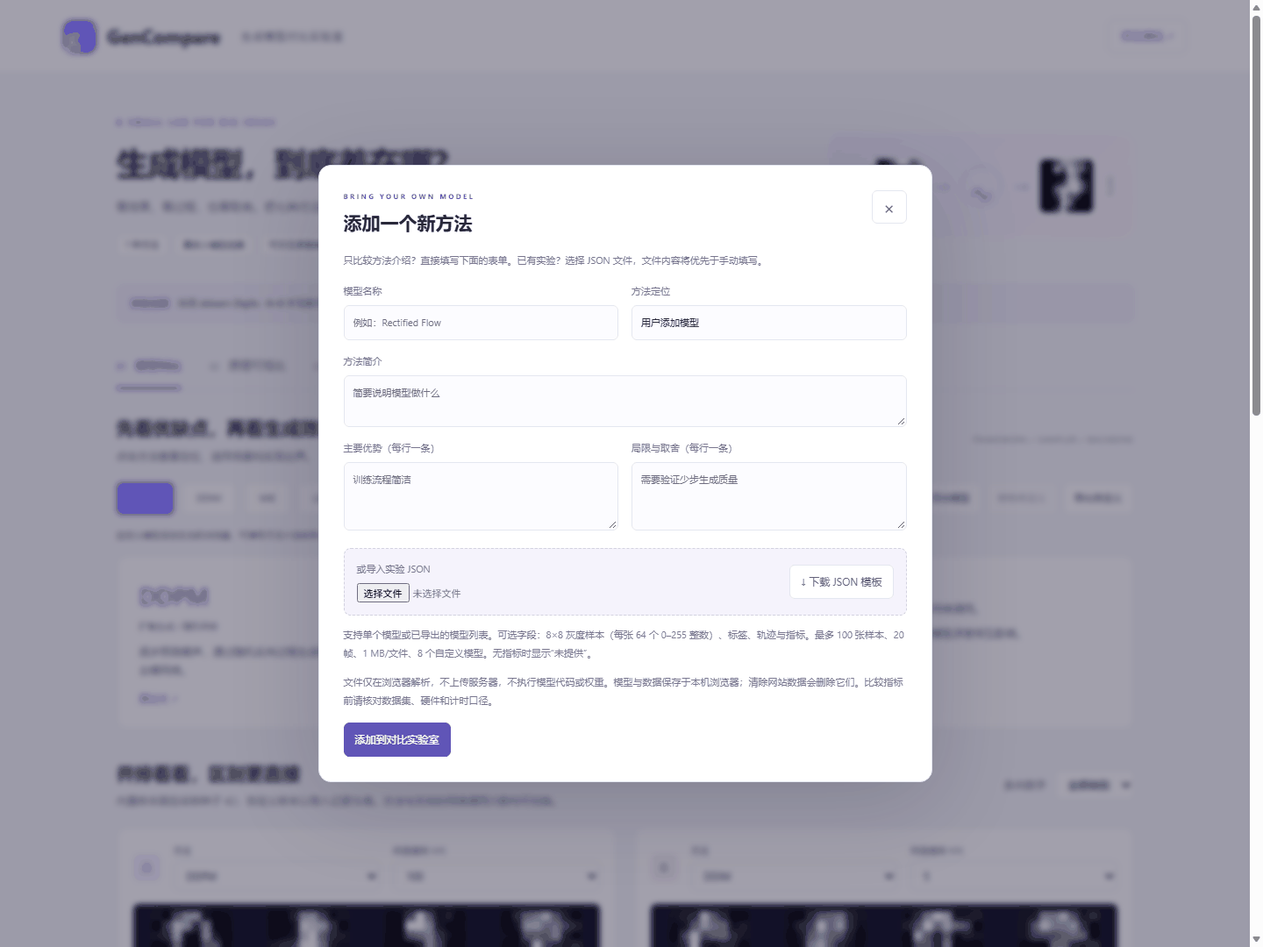
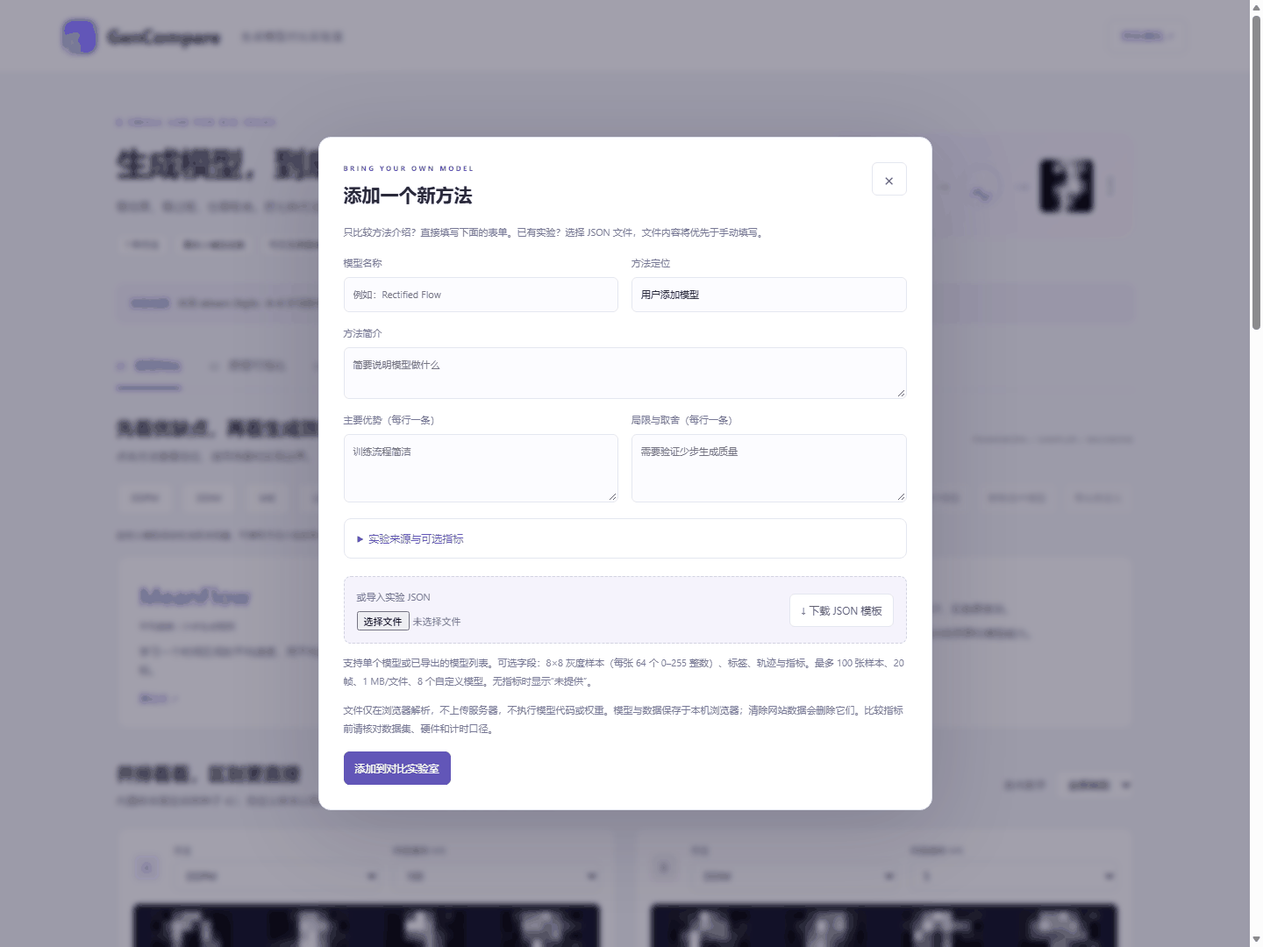
feat(engineering): improve comparison plots and custom model editing
Add interactive speed-quality plots, editable model provenance and metrics, selected-only removal, and regression checks for retained samples and labels.

diff --git a/engineering/src/index.html b/engineering/src/index.html
@@ -3,18 +3,19 @@
 <main><section class="intro"><div><div class="eyebrow">A SMALL LAB FOR BIG IDEAS</div><h1>生成模型，到底差在哪？</h1><p>看效果、看过程，也看取舍。把七种方法放在同一个实验台上，理解从噪声到数据的不同路径。</p><div class="intro-tags"><span>7 种方法</span><span>真实小模型结果</span><span>可交互原理演示</span></div></div><div class="intro-visual"><span>NOISE</span><canvas id="intro-noise" width="64" height="64" aria-label="随机噪声"></canvas><i>→</i><div class="process-symbol">∿</div><i>→</i><canvas id="intro-digit" width="64" height="64" aria-label="真实生成数字"></canvas><span>DATA</span></div></section>
 <div class="notice"><span>实验范围</span>采用 <b>sklearn Digits · 8×8</b> 手写数字，非 MNIST。所有模型为教学规模实现；DDIM 与 DDPM 共用权重。这里比较具体配置，不给不同层级的方法做通用排名。</div>
 <nav class="tabs" aria-label="实验视图"><button class="active" data-tab="compare" aria-selected="true">01 <span>模型对比</span></button><button data-tab="principles" aria-selected="false">02 <span>原理可视化</span></button><button data-tab="records" aria-selected="false">03 <span>实验记录</span></button></nav>
-<section class="view active" id="compare"><div class="section-heading"><div><h2>先看优缺点，再看生成效果</h2><p>点击方法查看定位、适用场景和实现边界。</p></div><span class="muted">FRAMEWORK / SAMPLER / BACKBONE</span></div><div class="custom-toolbar"><div id="model-pills" class="model-pills"></div><div><button id="add-model">＋ 添加模型</button><button id="remove-model">移除自定义</button><button id="export-models">导出自定义</button></div></div><p id="storage-note" class="storage-note" aria-live="polite">自定义模型保存在当前浏览器，可填写方法介绍或导入自己的实验结果。</p><article id="model-detail" class="model-detail" aria-live="polite"></article>
+<section class="view active" id="compare"><div class="section-heading"><div><h2>先看优缺点，再看生成效果</h2><p>点击方法查看定位、适用场景和实现边界。</p></div><span class="muted">FRAMEWORK / SAMPLER / BACKBONE</span></div><div class="custom-toolbar"><div id="model-pills" class="model-pills"></div><div><button id="add-model">＋ 添加模型</button><button id="edit-model" disabled>编辑选中模型</button><button id="remove-model" disabled>移除选中模型</button><button id="export-models">导出自定义</button></div></div><p id="storage-note" class="storage-note" aria-live="polite">自定义模型保存在当前浏览器，可填写方法介绍或导入自己的实验结果。</p><article id="model-detail" class="model-detail" aria-live="polite"></article>
 <div class="section-heading experiment-title"><div><h2>并排看看，区别更直接</h2><p>内置样本固定采样种子 42；自定义样本以导入记录为准。方法与支持的网络调用次数均可切换。</p></div><label class="digit-filter">条件数字 <select id="digit"><option value="all">全部类别</option></select></label></div>
-<div class="comparison"><article class="sample-panel"><div class="panel-top"><span class="side-letter">A</span><label>方法<select id="model-a"></select></label><label>网络调用 NFE<select id="steps-a"></select></label></div><canvas id="gallery-a" width="640" height="480" aria-label="方法 A 的生成样本"></canvas><div id="metric-a" class="metric-strip"></div><div class="trajectory-head"><b>生成轨迹</b><output id="frame-label-a"></output></div><canvas id="trajectory-a" width="640" height="80" aria-label="方法 A 的生成轨迹"></canvas><input id="frame-a" type="range" min="0" max="12" value="12" aria-label="方法 A 轨迹进度"></article>
-<article class="sample-panel"><div class="panel-top"><span class="side-letter pink">B</span><label>方法<select id="model-b"></select></label><label>网络调用 NFE<select id="steps-b"></select></label></div><canvas id="gallery-b" width="640" height="480" aria-label="方法 B 的生成样本"></canvas><div id="metric-b" class="metric-strip"></div><div class="trajectory-head"><b>生成轨迹</b><output id="frame-label-b"></output></div><canvas id="trajectory-b" width="640" height="80" aria-label="方法 B 的生成轨迹"></canvas><input id="frame-b" type="range" min="0" max="12" value="12" aria-label="方法 B 轨迹进度"></article></div>
+<div class="comparison"><article class="sample-panel"><div class="panel-top"><span class="side-letter">A</span><label>方法<select id="model-a"></select></label><label>网络调用 NFE<select id="steps-a"></select></label></div><canvas id="gallery-a" width="640" height="480" aria-label="方法 A 的生成样本"></canvas><div id="metric-a" class="metric-strip"></div><p id="source-a" class="sample-source"></p><div class="trajectory-head"><b>生成轨迹</b><output id="frame-label-a"></output></div><canvas id="trajectory-a" width="640" height="80" aria-label="方法 A 的生成轨迹"></canvas><input id="frame-a" type="range" min="0" max="12" value="12" aria-label="方法 A 轨迹进度"></article>
+<article class="sample-panel"><div class="panel-top"><span class="side-letter pink">B</span><label>方法<select id="model-b"></select></label><label>网络调用 NFE<select id="steps-b"></select></label></div><canvas id="gallery-b" width="640" height="480" aria-label="方法 B 的生成样本"></canvas><div id="metric-b" class="metric-strip"></div><p id="source-b" class="sample-source"></p><div class="trajectory-head"><b>生成轨迹</b><output id="frame-label-b"></output></div><canvas id="trajectory-b" width="640" height="80" aria-label="方法 B 的生成轨迹"></canvas><input id="frame-b" type="range" min="0" max="12" value="12" aria-label="方法 B 轨迹进度"></article></div>
 <div class="compare-actions"><button id="play" class="primary">▶ 同步播放轨迹</button><button id="export-image">↓ 导出对比图</button><span>图像按最近邻放大；VAE 直接解码，没有逐步去噪轨迹。</span></div>
-<div class="section-heading"><div><h2>同一数据集上的实验快照</h2><p>每配置生成 200 张 × 3 个种子。时延为同机实测批处理耗时，不是单图响应时间。</p></div><button id="export-csv">↓ 下载指标 CSV</button></div><div class="table-wrap"><table><thead><tr><th>方法 / 默认配置</th><th>调用 NFE</th><th>批次耗时 / ms ↓</th><th>像素 MMD² ↓</th><th>条件类别一致率 ↑</th></tr></thead><tbody id="benchmark"></tbody></table></div><p class="footnote">MMD² 是像素空间 RBF 分布差异，不是 FID；类别一致率由辅助分类器评估，不等同于生成质量。扩散/流 NFE 不含 LDM 解码；VAE 的 1 次即解码。架构、损失与参数预算不同，不构成严格消融实验。</p></section>
+<section class="tradeoff"><div class="section-heading"><div><h2>速度与效果，放在一张图里看</h2><p>每个点是一份真实实验配置。点击点或选择配置，可将它放入右侧对比。</p></div><label>比较指标 <select id="plot-metric"><option value="mmd2">像素 MMD² · 越低越好</option><option value="label_consistency">条件类别一致率 · 越高越好</option></select></label></div><div class="plot-controls"><label>方法 <select id="plot-model"><option value="all">全部内置方法</option></select></label><label>实验配置 <select id="plot-run"></select></label><label class="include-custom"><input type="checkbox" id="plot-custom"> 显示用户指标（未核验）</label></div><div class="plot-card"><canvas id="tradeoff-chart" width="1120" height="360" tabindex="0" aria-label="批次耗时与生成指标散点图，可使用上方配置选择器操作"></canvas><div id="plot-legend" class="plot-legend"></div><p id="plot-readout" class="plot-readout" aria-live="polite"></p></div><p class="footnote">横轴使用对数刻度，单位为 200 张批次的毫秒耗时；用户导入结果的批次与设备以来源信息为准，不保证与内置结果可比。连接线只用于追踪同一方法的不同配置。</p></section>
+<div class="section-heading"><div><h2>实验快照与来源对照</h2><p>内置配置：200 张 × 3 个种子，同机实测批次耗时。用户导入以其来源记录为准。</p></div><button id="export-csv">↓ 下载指标 CSV</button></div><div class="table-wrap"><table><thead><tr><th>方法 / 默认配置</th><th>调用 NFE</th><th>批次耗时 / ms ↓</th><th>像素 MMD² ↓</th><th>条件类别一致率 ↑</th></tr></thead><tbody id="benchmark"></tbody></table></div><p class="footnote">MMD² 是像素空间 RBF 分布差异，不是 FID；类别一致率由辅助分类器评估，不等同于生成质量。扩散/流 NFE 不含 LDM 解码；VAE 的 1 次即解码。架构、损失与参数预算不同，不构成严格消融实验。</p></section>
 <section class="view" id="principles"><div class="section-heading"><div><h2>把公式变成看得见的过程</h2><p>前向加噪为真实公式计算；二维配对路径为原理示意，不是七个训练模型的采样轨迹。</p></div></div><div class="principle-grid"><article class="card"><div class="number-label">01 / DIFFUSION</div><h3>扩散：逐渐加噪，学习逆过程</h3><p>拖动时间步，观察干净数字如何变成噪声。</p><div class="noise-stage"><canvas id="original" width="160" height="160" aria-label="干净测试数字"></canvas><span>→</span><canvas id="noised" width="160" height="160" aria-label="前向加噪数字"></canvas></div><label class="range-label">时间步 <output id="noise-output">0 / 100</output><input id="noise-t" type="range" min="0" max="100" value="0"></label><code>xₜ = √α̅ₜ x₀ + √(1−α̅ₜ) ε</code><p class="small">DDPM 与 DDIM 可共享同一噪声预测网络，主要比较反向采样方式。右图仅为前向公式，不是去噪模型输出。</p></article>
 <article class="card"><div class="number-label">02 / FLOW & MEAN VELOCITY</div><h3>流：用速度描述分布的移动</h3><p>观察固定噪声点到目标点的线性配对路径。</p><canvas id="particles" width="560" height="240" aria-label="二维线性配对路径示意"></canvas><label class="range-label">配对插值进度 <output id="flow-output">50%</output><input id="flow-t" type="range" min="0" max="100" value="50"></label><code>xₛ = (1−s) z + s x</code><p class="small">Flow Matching 学习瞬时速度场；MeanFlow 学习时间区间的平均速度。本图只展示已配对端点的插值，不能代替学习后的边缘速度场。</p></article>
 <article class="card"><div class="number-label">03 / VAE & LATENT DIFFUSION</div><h3>潜空间：先压缩，再生成</h3><div class="pipeline"><span>图像 x</span><i>→</i><span>编码器 E</span><i>→</i><span class="accent">潜变量 z</span><i>→</i><span>解码器 D</span></div><div class="mini-label">真实 VAE 测试重建：上排原图，下排重建</div><canvas id="reconstruction" width="640" height="160" aria-label="VAE 测试集重建对照"></canvas><div class="mini-label">同类测试图像的潜变量插值</div><canvas id="interpolation" width="640" height="80" aria-label="VAE 潜空间插值"></canvas><p class="small">VAE 可直接从先验采样后解码；本项目 LDM 在标准化 VAE 潜变量上运行扩散，再用同一个解码器还原。压缩引入的误差也会影响最终图像。</p></article>
 <article class="card"><div class="number-label">04 / DIFFUSION TRANSFORMER</div><h3>DiT：改变负责去噪的网络</h3><div class="patch-layout"><canvas id="patches" width="220" height="220" aria-label="DiT 图像分块结构"></canvas><div><strong>8 × 8 图像</strong><p>↓ 2 × 2 分块</p><strong>16 个 patch token</strong><p>↓ 时间与类别条件</p><strong>Transformer × 3</strong><p>↓ 预测像素噪声</p></div></div><p class="small">本项目是像素空间 Tiny DiT，使用 adaLN-Zero 条件残差块。原始 DiT 主要在潜空间操作；这里没有复现论文规模。分块图是结构示意，不是注意力权重。</p></article></div></section>
 <section class="view" id="records"><div class="section-heading"><div><h2>结果从哪里来？</h2><p>保留数据划分、训练配置和评估口径，让展示可追溯。</p></div><label>训练曲线 <select id="loss-model"></select></label></div><div class="record-grid"><article class="card"><h3>各自的训练收敛曲线</h3><canvas id="loss-chart" width="800" height="300" aria-label="训练损失曲线"></canvas><p id="loss-note" class="small"></p></article><article class="card"><h3>实验配置</h3><dl id="run-info"></dl></article></div><article class="card record-note"><h3>如何读这些结果</h3><ul><li>小数据、小网络的结果只能说明本次实现，不能据此判定哪篇论文更好。</li><li>DDPM/DDIM 共享权重，适合研究采样方式；像素 MLP 与 Tiny DiT 参数量不同，不是等预算架构实验。</li><li>VAE 的测试重建和随机生成分开评价；LDM 复用 VAE 的编码器与解码器。</li><li>Flow Matching 使用 Euler 积分；MeanFlow 实现平均速度恒等式与 JVP 训练，不是把普通流匹配直接改成一步。</li><li>三个采样种子的标准差反映采样波动；所有网络只训练一次，不包含训练种子的方差。</li><li>页面展示已训练模型的离线结果。重新训练、修改数据集和生成新种子，请运行仓库中的 Python 程序。</li></ul><a href="https://github.com/laportaeaston923-afk/grad-prep-zhoujingjing/tree/main/engineering" target="_blank" rel="noreferrer">查看复现步骤与完整原始指标 ↗</a></article></section>
-<dialog id="model-dialog"><div class="dialog-heading"><div><div class="eyebrow">BRING YOUR OWN MODEL</div><h2>添加一个新方法</h2></div><button id="close-dialog" type="button" aria-label="关闭">×</button></div><p class="small">只比较方法介绍？直接填写下面的表单。已有实验？选择 JSON 文件，文件内容将优先于手动填写。</p><form id="import-form"><div class="form-grid"><label>模型名称<input id="custom-name" maxlength="50" placeholder="例如：Rectified Flow"></label><label>方法定位<input id="custom-category" maxlength="80" value="用户添加模型"></label></div><label>方法简介<textarea id="custom-summary" maxlength="500" rows="2" placeholder="简要说明模型做什么"></textarea></label><div class="form-grid"><label>主要优势（每行一条）<textarea id="custom-pros" rows="3" placeholder="训练流程简洁"></textarea></label><label>局限与取舍（每行一条）<textarea id="custom-cons" rows="3" placeholder="需要验证少步生成质量"></textarea></label></div><div class="file-box"><label>或导入实验 JSON<input id="model-file" type="file" accept=".json,application/json"></label><button id="download-template" type="button">↓ 下载 JSON 模板</button></div><p class="small">支持单个模型或已导出的模型列表。可选字段：8×8 灰度样本（每张 64 个 0–255 整数）、标签、轨迹与指标。最多 100 张样本、20 帧、1 MB/文件、8 个自定义模型。无指标时显示“未提供”。</p><p class="small">文件仅在浏览器解析，不上传服务器，不执行模型代码或权重。模型与数据保存于本机浏览器；清除网站数据会删除它们。比较指标前请核对数据集、硬件和计时口径。</p><p id="import-error" class="error" role="alert"></p><button class="primary" type="submit">添加到对比实验室</button></form></dialog>
+<dialog id="model-dialog"><div class="dialog-heading"><div><div class="eyebrow">BRING YOUR OWN MODEL</div><h2 id="dialog-title">添加一个新方法</h2></div><button id="close-dialog" type="button" aria-label="关闭">×</button></div><p class="small">只比较方法介绍？直接填写下面的表单。已有实验？选择 JSON 文件，文件内容将优先于手动填写。</p><form id="import-form"><div class="form-grid"><label>模型名称<input id="custom-name" maxlength="50" placeholder="例如：Rectified Flow"></label><label>方法定位<input id="custom-category" maxlength="80" value="用户添加模型"></label></div><label>方法简介<textarea id="custom-summary" maxlength="500" rows="2" placeholder="简要说明模型做什么"></textarea></label><div class="form-grid"><label>主要优势（每行一条）<textarea id="custom-pros" rows="3" placeholder="训练流程简洁"></textarea></label><label>局限与取舍（每行一条）<textarea id="custom-cons" rows="3" placeholder="需要验证少步生成质量"></textarea></label></div><details class="metadata-fields"><summary>实验来源与可选指标</summary><div class="form-grid"><label>数据集<input id="custom-dataset" maxlength="100" placeholder="例如：sklearn Digits 8×8"></label><label>评估设备<input id="custom-hardware" maxlength="150" placeholder="例如：CPU / GPU 型号"></label></div><label>实验来源<textarea id="custom-provenance" maxlength="500" rows="2" placeholder="记录样本数量、种子、计时与指标计算方式"></textarea></label><div class="form-grid"><label>网络调用次数 NFE<input id="custom-nfe" type="number" min="1" max="1000" value="1"></label><label>计时批次样本数<input id="custom-batch" type="number" min="1" max="100000" placeholder="未提供"></label><label>批次耗时 / ms<input id="custom-ms" type="number" min="0" step="any" placeholder="未提供"></label><label>像素 MMD²<input id="custom-mmd" type="number" min="0" step="any" placeholder="未提供"></label><label>类别一致率 / 0–1<input id="custom-consistency" type="number" min="0" max="1" step="any" placeholder="未提供"></label></div></details><div class="file-box"><label>或导入实验 JSON<input id="model-file" type="file" accept=".json,application/json"></label><button id="download-template" type="button">↓ 下载 JSON 模板</button></div><p class="small">支持单个模型或已导出的模型列表。可选字段：8×8 灰度样本（每张 64 个 0–255 整数）、标签、轨迹与指标。最多 100 张样本、20 帧、1 MB/文件、8 个自定义模型。无指标时显示“未提供”。</p><p class="small">文件仅在浏览器解析，不上传服务器，不执行模型代码或权重。模型与数据保存于本机浏览器；清除网站数据会删除它们。比较指标前请核对数据集、硬件和计时口径。</p><p id="import-error" class="error" role="alert"></p><button class="primary" type="submit">添加到对比实验室</button></form></dialog>
 
 </main><footer><span>GenCompare <b> / </b> 理解方法，比记住名字更重要。</span><span>PyTorch + 原生 Web · 无需 API Key</span></footer>
 <script src="data/meta.js"></script>
@@ -41,5 +42,6 @@
 <script src="data/meanflow-4.js"></script>
 <script src="data/meanflow-8.js"></script>
 <script src="data/vae-1.js"></script>
-<script src="app.js"></script></body></html>
+<script src="app.js"></script><script src="enhancements.js"></script></body></html>
+
 

diff --git a/engineering/src/enhancements.js b/engineering/src/enhancements.js
@@ -1,0 +1,95 @@
+/* Progressive UI improvements, reusing the core's validated model registry. */
+'use strict';
+let editingKey=null,plotPoints=[];
+const plotColors={ddpm:'#6758d7',ddim:'#9d77dc',vae:'#409e8c',ldm:'#ce9750',dit:'#c66d99',fm:'#4986bd',meanflow:'#4f9f50'};
+const previousValidate=validate;
+validate=function(raw){
+ const value=previousValidate(raw);
+ value.dataset=raw.dataset===undefined?'未说明':text(raw.dataset,'数据集',100);
+ value.hardware=raw.hardware===undefined?'未说明':text(raw.hardware,'评估设备',150);
+ if(raw.batch_size!==undefined){if(!Number.isInteger(raw.batch_size)||raw.batch_size<1||raw.batch_size>100000)throw Error('batch_size 应为 1–100000 的整数');value.batch_size=raw.batch_size;}
+ if(raw.frame_labels!==undefined){if(!Array.isArray(raw.frame_labels)||raw.frame_labels.some(v=>!Number.isInteger(v)||v< -1||v>9)||value.frames.some(f=>f.length!==raw.frame_labels.length))throw Error('frame_labels 需与每帧图像数相同，取 -1 或 0–9');value.frame_labels=raw.frame_labels;}
+ return value;
+};
+function actionState(){const custom=customKeys.has(selectedMethod);$('edit-model').disabled=!custom;$('remove-model').disabled=!custom;$('export-models').disabled=customKeys.size===0;}
+const previousInfo=info;
+info=function(key){previousInfo(key);actionState();};
+const previousPopulate=populate;
+populate=function(){previousPopulate();actionState();};
+const previousRender=render;
+render=function(side,reset=false){previousRender(side,reset);const key=$('model-'+side).value,custom=customKeys.has(key),m=methods[key];
+ if(custom){const raw=m.raw;$('source-'+side).textContent=`用户导入 · 未核验 | 数据：${raw.dataset||'未说明'} | 设备：${raw.hardware||'未说明'} | ${raw.provenance}`;$('metric-'+side).querySelector('small').textContent=raw.batch_size?`${raw.batch_size} 张批次（用户导入）`:'批次样本数未说明';}
+ else{$('source-'+side).textContent='内置实验 · sklearn Digits 8×8 · '+meta.hardware+' · 指标为三个采样种子的均值';$('metric-'+side).querySelector('small').textContent='200 张批次耗时';}
+};
+// User samples need not be ordered by digit. Their labels travel with the images.
+drawFrame=function(side){const key=$('model-'+side).value,nfe=Number($('steps-'+side).value),run=runs[`${key}-${nfe}`],index=Number($('frame-'+side).value),frame=run.frames[index]||[],filter=$('digit').value;let images=frame;
+ if(filter!=='all'){
+  if(customKeys.has(key)){const raw=methods[key].raw,labels=raw.frames.length?(raw.frame_labels||Array.from({length:frame.length},(_,i)=>i)):raw.labels;images=frame.filter((_,i)=>labels[i]===Number(filter));}
+  else images=frame[Number(filter)]?[frame[Number(filter)]]:[];
+ }
+ gallery($('trajectory-'+side),images,[],10,10);$('frame-label-'+side).textContent=run.frames.length===0?'未导入轨迹':run.frames.length===1?'一次解码 / 单张结果':`${Math.round((run.frame_progress[index]||0)*100)}% · ${index+1}/${run.frames.length} 帧`;
+};
+const previousBenchmark=benchmark;
+benchmark=function(){previousBenchmark();const rows=[...$('benchmark').children];Object.keys(methods).forEach((key,i)=>{if(customKeys.has(key)){const raw=methods[key].raw;rows[i].cells[2].textContent=showNumber(raw.metrics.batch_ms,v=>v.toFixed(1));rows[i].cells[0].querySelector('small').textContent='用户导入 · '+(raw.dataset||'数据集未说明');}});if($('plot-model'))refreshPlotControls();};
+function openAdd(){editingKey=null;$('import-form').reset();$('dialog-title').textContent='添加一个新方法';$('import-form').querySelector('[type=submit]').textContent='添加到对比实验室';$('import-error').textContent='';$('model-dialog').showModal();}
+$('add-model').onclick=openAdd;
+$('edit-model').onclick=()=>{if(!customKeys.has(selectedMethod))return;editingKey=selectedMethod;const raw=methods[editingKey].raw;$('import-form').reset();
+ for(const [id,value] of Object.entries({'custom-name':raw.name,'custom-category':raw.category,'custom-summary':raw.summary,'custom-pros':raw.pros.join('\n'),'custom-cons':raw.cons.join('\n'),'custom-dataset':raw.dataset==='未说明'?'':raw.dataset,'custom-hardware':raw.hardware==='未说明'?'':raw.hardware,'custom-provenance':raw.provenance,'custom-nfe':raw.nfe,'custom-batch':raw.batch_size,'custom-ms':raw.metrics.batch_ms,'custom-mmd':raw.metrics.mmd2,'custom-consistency':raw.metrics.label_consistency}))$(id).value=value??'';
+ $('dialog-title').textContent='编辑：'+raw.name;$('import-form').querySelector('[type=submit]').textContent='保存修改';$('import-error').textContent='';$('model-dialog').showModal();};
+$('model-dialog').addEventListener('close',()=>{editingKey=null;});
+function manualValue(){const old=editingKey?methods[editingKey].raw:{};const metrics={};for(const [id,key] of [['custom-ms','batch_ms'],['custom-mmd','mmd2'],['custom-consistency','label_consistency']]){if($(id).value!=='')metrics[key]=Number($(id).value);}
+ const result={...old,name:$('custom-name').value,summary:$('custom-summary').value,category:$('custom-category').value,pros:$('custom-pros').value.split('\n').filter(Boolean),cons:$('custom-cons').value.split('\n').filter(Boolean),nfe:Number($('custom-nfe').value),metrics,provenance:$('custom-provenance').value||'手动填写，未提供实验来源',samples:old.samples||[],labels:old.labels||[],frames:old.frames||[]};
+ for(const [id,key] of [['custom-dataset','dataset'],['custom-hardware','hardware']]){if($(id).value.trim())result[key]=$(id).value;else delete result[key];}
+ if($('custom-batch').value!=='')result.batch_size=Number($('custom-batch').value);else delete result.batch_size;
+ return result;
+}
+function snapshot(){return [...customKeys].map(key=>({key,method:methods[key],run:runs[`${key}-${methods[key].default}`]}));}
+function restore(saved){for(const key of customKeys){delete runs[`${key}-${methods[key].default}`];delete methods[key];}customKeys.clear();for(const item of saved){methods[item.key]=item.method;runs[`${item.key}-${item.method.default}`]=item.run;customKeys.add(item.key);}}
+$('import-form').onsubmit=async event=>{event.preventDefault();$('import-error').textContent='';try{
+ const file=$('model-file').files[0];let raw;
+ if(file){if(file.size>1024*1024)throw Error('JSON 文件应小于 1 MB');raw=JSON.parse(await file.text());}else raw=manualValue();
+ const list=Array.isArray(raw)?raw:[raw];if(!list.length)throw Error('模型列表不能为空');
+ if(editingKey&&list.length!==1)throw Error('编辑时一次只能替换一个模型；批量导入请使用“添加模型”');
+ if(customKeys.size+list.length-(editingKey?1:0)>8)throw Error('最多保存 8 个自定义模型');
+ const values=list.map(validate),saved=snapshot(),oldKey=editingKey,sideA=$('model-a').value,sideB=$('model-b').value,oldSteps={a:$('steps-a').value,b:$('steps-b').value};
+ if(oldKey){delete runs[`${oldKey}-${methods[oldKey].default}`];delete methods[oldKey];customKeys.delete(oldKey);}
+ const added=values.map((value,i)=>{const key=oldKey||`custom-${Date.now()}-${i}`;attachCustom(value,key);return key;});
+ if(!persist()){restore(saved);return;}
+ populate();$('model-a').value=methods[sideA]?sideA:'ddpm';$('model-b').value=oldKey?(methods[sideB]?sideB:oldKey):added.at(-1);configure('a');configure('b');for(const side of ['a','b']){const select=$('steps-'+side);if($('model-'+side).value!==added.at(-1)&&[...select.options].some(o=>o.value===oldSteps[side])){select.value=oldSteps[side];render(side,true);}}info(added.at(-1));benchmark();$('model-dialog').close();
+ $('storage-note').textContent=oldKey?'已更新选中的模型，原有样本与轨迹已保留（除非使用文件替换）。':'已添加并保存在当前浏览器。用户指标需核对来源后再比较。';
+ }catch(error){$('import-error').textContent=error.message;}
+};
+$('remove-model').onclick=()=>{const key=selectedMethod;if(!customKeys.has(key))return;const name=methods[key].name,saved=snapshot();delete runs[`${key}-${methods[key].default}`];delete methods[key];customKeys.delete(key);
+ if(!persist()){restore(saved);$('storage-note').textContent=$('import-error').textContent;return;}
+ for(const s of ['a','b'])if($('model-'+s).value===key)$('model-'+s).value=s==='a'?'ddpm':'ddim';selectedMethod='ddpm';populate();configure('a');configure('b');benchmark();$('storage-note').textContent=`已移除选中的“${name}”。其他模型未改动。`;
+};
+$('download-template').onclick=()=>{const value={name:'我的新模型',category:'用户实验',summary:'说明模型原理与本次实现。',pros:['主要优势'],cons:['局限'],nfe:20,dataset:'填写数据集',hardware:'填写评估设备',batch_size:200,provenance:'填写种子、计时方式与指标口径；模板不含实验结果',samples:[],labels:[],frames:[],metrics:{}};download(new Blob([JSON.stringify(value,null,2)],{type:'application/json'}),'gencompare-model-template.json');};
+function plotRecords(){const filter=$('plot-model').value;let records=meta.records.map(r=>({...r,key:r.model,custom:false}));if($('plot-custom').checked){for(const key of customKeys){const raw=methods[key].raw;records.push({...raw.metrics,key,model:key,nfe:raw.nfe,custom:true,id:`${key}-${raw.nfe}`});}}
+ return records.filter(r=>(filter==='all'||r.key===filter)&&Number.isFinite(r.batch_ms)&&r.batch_ms>0&&Number.isFinite(r[$('plot-metric').value]));
+}
+function refreshPlotControls(){const selected=$('plot-model').value,selectedRun=$('plot-run').value;const sel=$('plot-model');sel.replaceChildren();const all=node('option',$('plot-custom').checked?'所有可用方法':'全部内置方法');all.value='all';sel.append(all);
+ Object.entries(methods).forEach(([key,m])=>{if(customKeys.has(key)&&!$('plot-custom').checked)return;const o=node('option',m.name);o.value=key;sel.append(o);});sel.value=methods[selected]&&(!customKeys.has(selected)||$('plot-custom').checked)?selected:'all';
+ const available=plotRecords(),runSel=$('plot-run');runSel.replaceChildren();const empty=node('option','选择一个点查看详情');empty.value='';runSel.append(empty);for(const r of available){const o=node('option',`${methods[r.key].name} · NFE ${r.nfe}${r.custom?' · 用户导入':''}`);o.value=r.id;runSel.append(o);}runSel.value=available.some(r=>r.id===selectedRun)?selectedRun:'';drawPlot();
+}
+function describePoint(r){const field=$('plot-metric').value;const value=field==='mmd2'?r.mmd2.toFixed(4):(r.label_consistency*100).toFixed(1)+'%';return `${methods[r.key].name} · NFE ${r.nfe} · 批次 ${r.batch_ms.toFixed(1)} ms · ${field==='mmd2'?'MMD²':'类别一致率'} ${value}${r.custom?' · 用户导入，未核验':' · 内置实验，200 张/批'}`;}
+function drawPlot(){const canvas=$('tradeoff-chart');canvas.width=Math.max(300,Math.floor(canvas.parentElement.clientWidth-44));canvas.height=canvas.width<600?330:360;const c=canvas.getContext('2d'),w=canvas.width,h=canvas.height,p={l:82,r:25,t:28,b:58},records=plotRecords(),field=$('plot-metric').value;c.clearRect(0,0,w,h);plotPoints=[];
+ if(!records.length){c.font='16px Segoe UI';c.fillStyle='#9290a4';c.fillText('没有同时提供正耗时与所选指标的配置。',p.l,h/2);$('plot-legend').replaceChildren();$('plot-readout').textContent='缺失的指标不会绘制为零值。';return;}
+ const times=records.map(r=>Math.log10(r.batch_ms)),xmin=Math.floor(Math.min(...times)*2)/2,xmax=Math.max(xmin+.5,Math.ceil(Math.max(...times)*2)/2),ys=records.map(r=>r[field]);let ymin=field==='mmd2'?0:Math.max(0,Math.min(...ys)-.04),ymax=field==='mmd2'?Math.max(.001,Math.max(...ys)*1.15):Math.min(1.03,Math.max(...ys)+.025);if(ymax-ymin<.01&&field!=='mmd2')ymin=Math.max(0,ymax-.1);
+ const xx=v=>p.l+(Math.log10(v)-xmin)/(xmax-xmin)*(w-p.l-p.r),yy=v=>p.t+(ymax-v)/(ymax-ymin)*(h-p.t-p.b);c.font='12px Segoe UI';c.lineWidth=1;
+ for(let i=0;i<=4;i++){const value=ymin+(ymax-ymin)*i/4,y=yy(value);c.strokeStyle='#e9eaf3';c.beginPath();c.moveTo(p.l,y);c.lineTo(w-p.r,y);c.stroke();c.fillStyle='#8b8fa4';c.fillText(field==='mmd2'?value.toFixed(4):(value*100).toFixed(0)+'%',10,y+4);}
+ for(let e=Math.floor(xmin);e<=Math.ceil(xmax);e++){for(const k of (w<600?[1,5]:[1,2,5])){const value=k*10**e,l=Math.log10(value);if(l<xmin||l>xmax)continue;const x=xx(value);c.strokeStyle='#f0f0f7';c.beginPath();c.moveTo(x,p.t);c.lineTo(x,h-p.b);c.stroke();c.fillStyle='#8b8fa4';c.fillText(value<1?value.toFixed(2):String(value),x-8,h-p.b+22);}}
+ const keys=[...new Set(records.map(r=>r.key))];$('plot-legend').replaceChildren();for(const key of keys){const list=records.filter(r=>r.key===key).sort((a,b)=>a.nfe-b.nfe),color=plotColors[key]||'#a58559',item=node('span',methods[key].name);item.style.setProperty('--legend-color',color);$('plot-legend').append(item);c.strokeStyle=color+'70';c.lineWidth=1.5;c.beginPath();list.forEach((r,i)=>i?c.lineTo(xx(r.batch_ms),yy(r[field])):c.moveTo(xx(r.batch_ms),yy(r[field])));c.stroke();
+  for(const r of list){const x=xx(r.batch_ms),y=yy(r[field]),selected=$('plot-run').value===r.id;c.fillStyle=color;c.strokeStyle=selected?'#282142':'#fff';c.lineWidth=selected?3:1.5;c.beginPath();if(r.custom)c.rect(x-5,y-5,10,10);else c.arc(x,y,selected?7:5,0,2*Math.PI);c.fill();c.stroke();plotPoints.push({x,y,record:r});}
+ }
+ c.fillStyle='#8b8fa4';c.fillText('批次耗时 / ms（对数刻度）',w/2-80,h-12);c.fillText(field==='mmd2'?'MMD² ↓':'类别一致率 ↑',p.l,p.t-10);
+ const selected=records.find(r=>r.id===$('plot-run').value);$('plot-readout').textContent=selected?describePoint(selected):'点击图中的点查看配置；也可以使用上方下拉框。';
+}
+function choosePlot(id){$('plot-run').value=id;const r=plotRecords().find(r=>r.id===id);if(!r)return;$('model-b').value=r.key;configure('b');$('steps-b').value=r.nfe;render('b',true);info(r.key);drawPlot();}
+for(const id of ['plot-model','plot-metric','plot-custom'])$(id).onchange=refreshPlotControls;
+$('plot-run').onchange=()=>choosePlot($('plot-run').value);
+window.addEventListener('resize',drawPlot);
+document.querySelector('[data-tab=compare]').addEventListener('click',()=>requestAnimationFrame(drawPlot));
+$('tradeoff-chart').onclick=event=>{const rect=event.currentTarget.getBoundingClientRect(),x=(event.clientX-rect.left)/rect.width*event.currentTarget.width,y=(event.clientY-rect.top)/rect.height*event.currentTarget.height;const point=plotPoints.reduce((best,p)=>!best||Math.hypot(p.x-x,p.y-y)<Math.hypot(best.x-x,best.y-y)?p:best,null);if(point&&Math.hypot(point.x-x,point.y-y)<18)choosePlot(point.record.id);};
+// Normalize old saved entries to include the new optional provenance fields.
+for(const key of customKeys){const raw=methods[key].raw;try{attachCustom(raw,key);}catch(error){$('storage-note').textContent='部分旧模型来源字段无法读取，请重新编辑或导入。';}}
+actionState();render('a');render('b');benchmark();

diff --git a/engineering/src/style.css b/engineering/src/style.css
@@ -1,2 +1,3 @@
 :root{--bg:#f6f7fb;--white:#fff;--ink:#20263b;--muted:#747b91;--line:#e4e7f0;--purple:#6656d9;--light:#f0edff;--pink:#c25a95}*{box-sizing:border-box}body{margin:0;background:var(--bg);color:var(--ink);font:14px/1.7 'Segoe UI','Microsoft YaHei',sans-serif}button,select{font:inherit}a{color:var(--purple);text-decoration:none}button,a,select,input{outline-offset:4px}button:focus-visible,a:focus-visible,select:focus-visible,input:focus-visible{outline:2px solid var(--purple)}header{height:84px;padding:0 5vw;border-bottom:1px solid var(--line);background:#fff;display:flex;align-items:center;justify-content:space-between}.brand{display:flex;align-items:center;gap:12px;color:var(--ink);font-size:22px;font-weight:700;letter-spacing:-.5px}.brand-icon{display:inline-flex;align-items:center;justify-content:center;width:38px;height:38px;border-radius:11px;background:var(--purple);color:white;font-size:30px;font-family:Georgia}.brand-icon span{font-size:16px;margin-top:-10px}.brand small{margin-left:12px;color:var(--muted);font-size:12px;font-weight:400;letter-spacing:1px}.source{font-size:12px;border:1px solid var(--line);border-radius:7px;padding:8px 14px}main{max-width:1220px;margin:auto;padding:0 30px}.intro{display:flex;align-items:center;justify-content:space-between;gap:40px;padding:48px 0 32px}.eyebrow{font-size:9px;color:var(--purple);letter-spacing:2.4px;font-weight:700}h1{font-size:37px;line-height:1.35;letter-spacing:-1px;margin:13px 0 15px}h2{font-size:21px;line-height:1.4;margin:0 0 7px}h3{font-size:17px;margin:0 0 12px}p{margin:0 0 12px;color:var(--muted)}.intro p{max-width:610px;font-size:13px}.intro-tags{display:flex;gap:8px;margin-top:20px}.intro-tags span{background:white;border:1px solid var(--line);border-radius:5px;padding:3px 9px;font-size:10px;color:#646b82}.intro-visual{display:flex;align-items:center;gap:13px;padding:30px 20px;border-radius:16px;background:linear-gradient(135deg,#eeecff,#faf4f8);min-width:340px;position:relative}.intro-visual canvas{width:60px;height:60px;border-radius:6px;image-rendering:pixelated}.intro-visual>span{font-size:8px;letter-spacing:1px;color:#8f88af;writing-mode:vertical-lr}.intro-visual i{font-style:normal;color:#9588bc;font-size:21px}.process-symbol{width:46px;height:46px;border-radius:50%;display:grid;place-items:center;border:1px solid #c6bcec;color:var(--purple);font-size:34px}.notice{background:#f0eef9;border:1px solid #e4dff5;border-radius:8px;padding:11px 15px;font-size:11px;color:#77718d;line-height:1.8}.notice span{display:inline-block;color:var(--purple);font-weight:700;margin-right:10px}.notice b{font-weight:500;color:#58516f}.tabs{display:flex;border-bottom:1px solid var(--line);gap:32px;margin:25px 0 28px}.tabs button{background:transparent;border:0;border-bottom:3px solid transparent;border-radius:0;padding:13px 0;font-size:11px;color:#a0a4b5;cursor:pointer}.tabs button span{margin-left:7px;font-size:13px;color:var(--muted)}.tabs button.active{color:var(--purple);border-color:var(--purple)}.tabs button.active span{color:var(--purple);font-weight:600}.view{display:none}.view.active{display:block}.section-heading{display:flex;justify-content:space-between;align-items:center;gap:20px;margin:24px 0 20px}.section-heading p{font-size:12px;margin:0}.muted{font-size:9px;letter-spacing:1px;color:#9297aa}.model-pills{display:flex;flex-wrap:wrap;gap:9px;margin-bottom:15px}button{border:1px solid var(--line);border-radius:6px;padding:8px 12px;color:#5b6278;background:#fff;cursor:pointer;font-size:12px}button:hover{border-color:#b1a6e7;background:#faf9ff}.model-pills button{padding:8px 16px}.model-pills button.active{background:var(--purple);border-color:var(--purple);color:#fff}.model-detail{background:#fff;border:1px solid var(--line);border-radius:12px;padding:23px 25px;display:grid;grid-template-columns:1.05fr 1fr 1fr;gap:25px;min-height:180px}.detail-name{font-size:27px;font-weight:600;margin:0 0 3px;color:var(--purple)}.detail-tag{font-size:10px;color:#8d84aa;margin-bottom:10px}.detail-summary{font-size:12px;line-height:1.8;margin-bottom:8px}.detail-column{border-left:1px solid var(--line);padding-left:22px}.detail-column b{font-size:12px;display:block;margin-bottom:7px}.detail-column p{font-size:12px;margin:0 0 8px}.detail-column .best{color:#4d4380}.detail-link{font-size:11px}.experiment-title{margin-top:35px}.digit-filter{display:flex;align-items:center;gap:10px;white-space:nowrap;color:var(--muted);font-size:12px}select{background:#fff;border:1px solid var(--line);padding:7px 10px;border-radius:6px;color:var(--ink);max-width:100%;font-size:12px;cursor:pointer}.comparison{display:grid;grid-template-columns:1fr 1fr;gap:20px}.sample-panel{border:1px solid var(--line);border-radius:12px;background:white;overflow:hidden;min-width:0;padding:18px}.panel-top{display:flex;gap:15px;align-items:center;margin-bottom:15px}.panel-top label{display:flex;flex-direction:column;gap:3px;font-size:10px;color:var(--muted);flex:1;min-width:0}.panel-top select{width:100%}.side-letter{background:var(--light);color:var(--purple);width:31px;height:31px;display:grid;place-items:center;border-radius:7px;font-size:13px;font-weight:600}.pink{background:#faebf3;color:var(--pink)}canvas{display:block;max-width:100%}canvas[id^=gallery]{width:100%;height:auto;border-radius:7px;background:#101224}canvas[id^=trajectory]{width:100%;height:auto;background:#101224;border-radius:5px}.metric-strip{display:grid;grid-template-columns:repeat(3,1fr);gap:8px;border-bottom:1px solid var(--line);padding:15px 0}.metric-strip strong{display:block;font-weight:600;font-size:17px;font-variant-numeric:tabular-nums}.metric-strip small{font-size:10px;color:var(--muted)}.trajectory-head{display:flex;justify-content:space-between;align-items:center;margin:16px 0 10px;font-size:11px}.trajectory-head output{font-size:10px;color:var(--muted)}input[type=range]{width:100%;accent-color:var(--purple);cursor:pointer;margin-top:12px}.compare-actions{display:flex;align-items:center;gap:10px;margin:18px 0 30px}.compare-actions span{font-size:10px;color:var(--muted);margin-left:auto}.primary{background:var(--purple);border-color:var(--purple);color:white}.primary:hover{background:#5748c2}.table-wrap{overflow:auto;border:1px solid var(--line);border-radius:10px;background:white}table{width:100%;border-collapse:collapse;font-size:12px;white-space:nowrap}th{font-weight:500;color:#80869a;background:#fafafe}th,td{padding:13px 18px;border-bottom:1px solid #edf0f5;text-align:right}th:first-child,td:first-child{text-align:left}tr:last-child td{border:0}td small{color:#959aab;font-size:10px;display:block}.footnote{font-size:10px;margin:12px 0 32px;line-height:1.9}.principle-grid{display:grid;grid-template-columns:1fr 1fr;gap:20px}.card{background:#fff;border:1px solid var(--line);border-radius:12px;padding:24px}.card>p{font-size:12px}.number-label{color:var(--purple);font-size:9px;letter-spacing:1.5px;margin-bottom:13px}.noise-stage{display:flex;justify-content:center;align-items:center;gap:28px;background:#f6f6fb;border-radius:9px;padding:20px;margin:17px 0}.noise-stage canvas{width:120px;height:120px;image-rendering:pixelated;background:#101224;border-radius:5px}.noise-stage span{color:#9f96c4;font-size:24px}.range-label{display:block;font-size:12px;color:var(--muted)}.range-label output{float:right;color:var(--purple)}code{display:block;background:#f6f4fd;border-radius:6px;color:#69579a;padding:11px;font-size:11px;margin:12px 0}.small{font-size:11px!important;line-height:1.9;margin:12px 0 0}#particles{width:100%;height:210px;background:#f8f7fd;border-radius:8px;margin-top:14px}.pipeline{display:flex;flex-wrap:wrap;gap:5px;align-items:center;margin:19px 0}.pipeline span{border:1px solid var(--line);border-radius:5px;font-size:10px;padding:7px}.pipeline i{font-style:normal;color:#a8a1bd}.pipeline .accent{background:var(--light);color:var(--purple)}.mini-label{font-size:10px;color:var(--muted);margin:16px 0 9px}#reconstruction,#interpolation{width:100%;height:auto;border-radius:5px;background:#101224}.patch-layout{display:flex;align-items:center;gap:25px;margin:17px 0 23px}.patch-layout canvas{width:165px;height:165px;background:#101224;border-radius:5px;flex-shrink:0}.patch-layout div{font-size:11px}.patch-layout strong{font-weight:500}.patch-layout p{font-size:10px;margin:4px 0}.record-grid{display:grid;grid-template-columns:1.3fr 1fr;gap:20px}#loss-chart{width:100%;height:auto}dl{margin:0;font-size:11px}dt{float:left;clear:left;color:var(--muted);width:110px;padding:7px 0}dd{margin-left:115px;padding:7px 0;border-bottom:1px solid #f0f1f7;word-break:break-word}.record-note{margin:22px 0 35px}.record-note ul{padding-left:18px;color:var(--muted);font-size:12px;line-height:2}.record-note a{font-size:12px}footer{margin-top:40px;border-top:1px solid var(--line);display:flex;justify-content:space-between;gap:20px;padding:22px 5vw;color:#8e93a5;font-size:10px;background:#fff}footer b{color:#d0cbe5;margin:0 5px}@media(max-width:850px){.brand small{display:none}.intro{gap:15px;flex-direction:column;align-items:start;padding-top:30px}.intro-visual{min-width:0;width:100%;justify-content:center}.intro h1{font-size:29px}.section-heading{align-items:start;flex-wrap:wrap}.model-detail{grid-template-columns:1fr}.detail-column{border-left:0;border-top:1px solid var(--line);padding:15px 0 0}.comparison,.principle-grid,.record-grid{grid-template-columns:1fr}.compare-actions{flex-wrap:wrap}.compare-actions span{width:100%;margin-left:0}.tabs{gap:20px}.tabs button span{font-size:12px}.section-heading .muted{display:none}.model-pills{gap:6px}.model-pills button{padding:7px 10px;font-size:11px}main{padding:0 18px}.source{font-size:10px;padding:6px 9px}.brand{font-size:20px}.card{padding:20px}.patch-layout{gap:16px}.patch-layout canvas{width:145px;height:145px}footer{flex-wrap:wrap}.noise-stage{gap:20px}.noise-stage canvas{width:105px;height:105px}}
 .custom-toolbar{display:flex;justify-content:space-between;gap:12px;align-items:start;flex-wrap:wrap}.custom-toolbar>div:last-child{display:flex;gap:6px}.custom-toolbar button{font-size:11px}.storage-note{font-size:10px;margin:0 0 14px;color:#8a809e}.custom-warning{font-size:10px;color:#ad6c40;margin:8px 0 0}button:disabled{opacity:.45;cursor:default}dialog{width:min(700px,calc(100% - 30px));max-height:90vh;overflow:auto;border:1px solid var(--line);border-radius:14px;padding:28px;color:var(--ink);box-shadow:0 20px 100px #15113230}dialog::backdrop{background:#17122f66;backdrop-filter:blur(3px)}.dialog-heading{display:flex;justify-content:space-between;align-items:start;gap:20px}.dialog-heading h2{margin-top:8px}#close-dialog{font-size:20px;line-height:1}.form-grid{display:grid;grid-template-columns:1fr 1fr;gap:15px}#import-form label{display:flex;flex-direction:column;gap:6px;font-size:11px;color:var(--muted);margin:15px 0 0}#import-form input:not([type=file]),#import-form textarea{font:inherit;color:var(--ink);border:1px solid var(--line);border-radius:6px;padding:10px;background:#fcfcff;width:100%;resize:vertical}.file-box{background:#f5f3fc;border:1px dashed #c9c0e9;border-radius:8px;padding:14px;margin-top:20px;display:flex;justify-content:space-between;align-items:center;gap:15px}.file-box label{margin:0!important}.file-box input{max-width:300px;font-size:11px}#download-template{white-space:nowrap}.error{color:#b34758;font-size:12px;margin:15px 0}.dialog-heading .eyebrow{font-size:8px}@media(max-width:600px){.form-grid{grid-template-columns:1fr}.file-box{flex-direction:column;align-items:start}dialog{padding:20px}.custom-toolbar>div:last-child{flex-wrap:wrap}}
+.sample-source{font-size:10px;line-height:1.8;color:#8a809e;overflow-wrap:anywhere;margin:9px 0 0}.detail-name{overflow-wrap:anywhere}.tradeoff{margin:32px 0 25px}.plot-controls{display:flex;flex-wrap:wrap;gap:16px;align-items:center;margin:16px 0}.plot-controls label{display:flex;align-items:center;gap:8px;font-size:11px;color:var(--muted)}.plot-controls .include-custom{margin-left:auto;font-size:10px}.include-custom input{accent-color:var(--purple)}.plot-card{background:white;border:1px solid var(--line);border-radius:12px;padding:18px 22px 10px}#tradeoff-chart{width:100%;height:auto;cursor:crosshair}.plot-legend{display:flex;justify-content:center;flex-wrap:wrap;gap:18px;font-size:10px;color:var(--muted);margin:8px 0}.plot-legend span:before{content:'';display:inline-block;width:7px;height:7px;background:var(--legend-color);border-radius:50%;margin-right:6px}.plot-readout{font-size:11px;text-align:center;color:var(--purple);min-height:23px;margin:14px 0 5px}.metadata-fields{border:1px solid var(--line);border-radius:8px;padding:12px 15px;margin:18px 0 0}.metadata-fields summary{font-size:12px;color:var(--purple);cursor:pointer}.metadata-fields[open]{background:#fcfbff}@media(max-width:650px){.plot-controls{align-items:stretch;gap:10px}.plot-controls>label{width:100%;justify-content:space-between}.plot-controls select{max-width:70%}.plot-controls .include-custom{margin-left:0;justify-content:start}.plot-card{padding:10px 5px}.plot-readout{padding:0 12px;font-size:10px}.plot-legend{gap:10px}.custom-toolbar>div:last-child{gap:5px}}

diff --git a/engineering/src/model-dialog.html b/engineering/src/model-dialog.html
@@ -1,1 +1,1 @@
-<dialog id="model-dialog"><div class="dialog-heading"><div><div class="eyebrow">BRING YOUR OWN MODEL</div><h2>添加一个新方法</h2></div><button id="close-dialog" type="button" aria-label="关闭">×</button></div><p class="small">只比较方法介绍？直接填写下面的表单。已有实验？选择 JSON 文件，文件内容将优先于手动填写。</p><form id="import-form"><div class="form-grid"><label>模型名称<input id="custom-name" maxlength="50" placeholder="例如：Rectified Flow"></label><label>方法定位<input id="custom-category" maxlength="80" value="用户添加模型"></label></div><label>方法简介<textarea id="custom-summary" maxlength="500" rows="2" placeholder="简要说明模型做什么"></textarea></label><div class="form-grid"><label>主要优势（每行一条）<textarea id="custom-pros" rows="3" placeholder="训练流程简洁"></textarea></label><label>局限与取舍（每行一条）<textarea id="custom-cons" rows="3" placeholder="需要验证少步生成质量"></textarea></label></div><div class="file-box"><label>或导入实验 JSON<input id="model-file" type="file" accept=".json,application/json"></label><button id="download-template" type="button">↓ 下载 JSON 模板</button></div><p class="small">支持单个模型或已导出的模型列表。可选字段：8×8 灰度样本（每张 64 个 0–255 整数）、标签、轨迹与指标。最多 100 张样本、20 帧、1 MB/文件、8 个自定义模型。无指标时显示“未提供”。</p><p class="small">文件仅在浏览器解析，不上传服务器，不执行模型代码或权重。模型与数据保存于本机浏览器；清除网站数据会删除它们。比较指标前请核对数据集、硬件和计时口径。</p><p id="import-error" class="error" role="alert"></p><button class="primary" type="submit">添加到对比实验室</button></form></dialog>
+<dialog id="model-dialog"><div class="dialog-heading"><div><div class="eyebrow">BRING YOUR OWN MODEL</div><h2 id="dialog-title">添加一个新方法</h2></div><button id="close-dialog" type="button" aria-label="关闭">×</button></div><p class="small">只比较方法介绍？直接填写下面的表单。已有实验？选择 JSON 文件，文件内容将优先于手动填写。</p><form id="import-form"><div class="form-grid"><label>模型名称<input id="custom-name" maxlength="50" placeholder="例如：Rectified Flow"></label><label>方法定位<input id="custom-category" maxlength="80" value="用户添加模型"></label></div><label>方法简介<textarea id="custom-summary" maxlength="500" rows="2" placeholder="简要说明模型做什么"></textarea></label><div class="form-grid"><label>主要优势（每行一条）<textarea id="custom-pros" rows="3" placeholder="训练流程简洁"></textarea></label><label>局限与取舍（每行一条）<textarea id="custom-cons" rows="3" placeholder="需要验证少步生成质量"></textarea></label></div><details class="metadata-fields"><summary>实验来源与可选指标</summary><div class="form-grid"><label>数据集<input id="custom-dataset" maxlength="100" placeholder="例如：sklearn Digits 8×8"></label><label>评估设备<input id="custom-hardware" maxlength="150" placeholder="例如：CPU / GPU 型号"></label></div><label>实验来源<textarea id="custom-provenance" maxlength="500" rows="2" placeholder="记录样本数量、种子、计时与指标计算方式"></textarea></label><div class="form-grid"><label>网络调用次数 NFE<input id="custom-nfe" type="number" min="1" max="1000" value="1"></label><label>计时批次样本数<input id="custom-batch" type="number" min="1" max="100000" placeholder="未提供"></label><label>批次耗时 / ms<input id="custom-ms" type="number" min="0" step="any" placeholder="未提供"></label><label>像素 MMD²<input id="custom-mmd" type="number" min="0" step="any" placeholder="未提供"></label><label>类别一致率 / 0–1<input id="custom-consistency" type="number" min="0" max="1" step="any" placeholder="未提供"></label></div></details><div class="file-box"><label>或导入实验 JSON<input id="model-file" type="file" accept=".json,application/json"></label><button id="download-template" type="button">↓ 下载 JSON 模板</button></div><p class="small">支持单个模型或已导出的模型列表。可选字段：8×8 灰度样本（每张 64 个 0–255 整数）、标签、轨迹与指标。最多 100 张样本、20 帧、1 MB/文件、8 个自定义模型。无指标时显示“未提供”。</p><p class="small">文件仅在浏览器解析，不上传服务器，不执行模型代码或权重。模型与数据保存于本机浏览器；清除网站数据会删除它们。比较指标前请核对数据集、硬件和计时口径。</p><p id="import-error" class="error" role="alert"></p><button class="primary" type="submit">添加到对比实验室</button></form></dialog>

diff --git a/engineering/README.md b/engineering/README.md
@@ -10,9 +10,10 @@
 |---|---|
 | 方法优缺点 | 七种方法的定位、优势、局限、适用场景及原论文链接 |
 | 生成效果对比 | 两种方法并排显示，切换数字类别、支持的 NFE、生成轨迹；导出对比 PNG |
+| 速度—质量图 | 筛选方法、切换 MMD²/类别一致率，点击实验点或使用下拉框将配置同步到右侧对比 |
 | 原理可视化 | 公式计算前向加噪、二维配对流路径、真实 VAE 重建与插值、DiT 图像分块示意 |
 | 实验记录 | 参数量、训练曲线、设备、数据划分与真实指标；导出 CSV |
-| 自定义模型 | 手动添加方法说明，或导入自己的样本、轨迹、指标 JSON；本地保存、移除与导出 |
+| 自定义模型 | 手动添加方法说明，或导入自己的样本、轨迹、指标 JSON；本地保存、编辑、明确移除选中项与导出 |
 
 ## 怎么运行
 
@@ -56,6 +57,9 @@ python engineering/src/ml/figures.py
 1. **只比较原理与优缺点**：手动填写名称、方法定位、简介、优势与局限即可。未提供的样本和指标显示为空，不生成虚构结果。
 2. **比较自己的实验结果**：下载 JSON 模板，填写实验信息、样本与指标后导入。文件内容优先于手动表单。
 3. 新方法会加入方法说明、左右对比选择器和指标表。支持导出自定义模型，再在另一浏览器导入。
+4. 在方法栏选中自己的模型，点击“编辑选中模型”可修改说明、来源和指标。手动编辑会保留原样本与轨迹；编辑时选择 JSON 文件则替换整份模型记录。只能移除选中的自定义模型，内置方法的编辑/移除按钮禁用。
+
+“实验来源与可选指标”支持填写数据集、设备、计时批次大小与指标。用户导入结果不默认画在速度—质量图中，只有勾选“显示用户指标（未核验）”后才加入。缺少正耗时或所选指标的配置不绘制，不以零值代替；未经提供的误差范围也不显示为 ±0。图中比较不同设备、数据集和批次的耗时需自行核对口径。
 
 数据保存在当前浏览器的 `localStorage`。清除网站数据、切换浏览器或访问不同站点地址不会自动同步。浏览器文件模式的存储行为也可能因浏览器而异，推荐使用静态服务器并定期导出备份。文件只在本地解析，不发送给服务器。
 
@@ -91,6 +95,9 @@ python engineering/src/ml/figures.py
 | `metrics.mmd2` | 可选，非负分布差异；需与内置评估口径相同才有可比性 |
 | `metrics.label_consistency` | 可选，0–1 的比例，不是百分数 |
 | `provenance` | 建议填写实验来源、样本数量、随机种子和评估口径 |
+| `dataset / hardware` | 可选，数据集名称与评估设备，分别最多 100/150 字 |
+| `batch_size` | 可选，计时批次样本数，1–100000 整数 |
+| `frame_labels` | 可选，与每一帧图像数相同，取 -1 或 0–9；不提供时显式轨迹默认按 0–9 排列 |
 
 支持单个对象或对象列表。单文件不超过 1 MB，最多保存 8 个自定义模型。支持在当前浏览器移除自定义方法，内置方法不会被移除。导入内容始终标记为“用户导入，未核验”；HTML 文本按普通文字显示。
 
@@ -161,7 +168,7 @@ VAE 不属于扩散模型；DiT 是骨干架构，LDM 是潜空间框架，DDIM 
 engineering/
 ├── README.md / requirements.txt
 ├── src/
-│   ├── index.html / style.css / app.js
+│   ├── index.html / style.css / app.js / enhancements.js
 │   ├── model-dialog.html          # 自定义模型表单片段，已内嵌到 index.html
 │   ├── data/*.js                  # 真实生成样本、轨迹与指标
 │   └── ml/
@@ -183,7 +190,7 @@ node --check engineering/src/app.js
 
 浏览器使用单独的 Edge/Chrome 调试会话（`--remote-debugging-port=9222`），Node 22+ 下运行 `node engineering/tests/browser-checks.mjs` 可复查交互并更新截图。该脚本只清除测试页面的 `gencompare.custom.v1` 存储键，请使用专用测试浏览器配置目录。
 
-浏览器检查覆盖七种模型、步数、类别筛选、同步播放、原理滑块、曲线、手动新增、JSON 对象列表导入、非法指标拒绝、刷新持久化、文本安全渲染、删除自定义与手机布局。记录见 [browser-checks.json](results/browser-checks.json)。
+浏览器检查覆盖七种模型、步数、类别筛选、同步播放、原理滑块、曲线、速度—质量图筛选与配置联动、手动新增、JSON 对象列表导入、非法指标拒绝、刷新持久化、模型编辑与样本保留、非顺序标签筛选、文本安全渲染、删除选中自定义模型与手机布局。记录见 [browser-checks.json](results/browser-checks.json)。
 
 ## 参考资料
 
